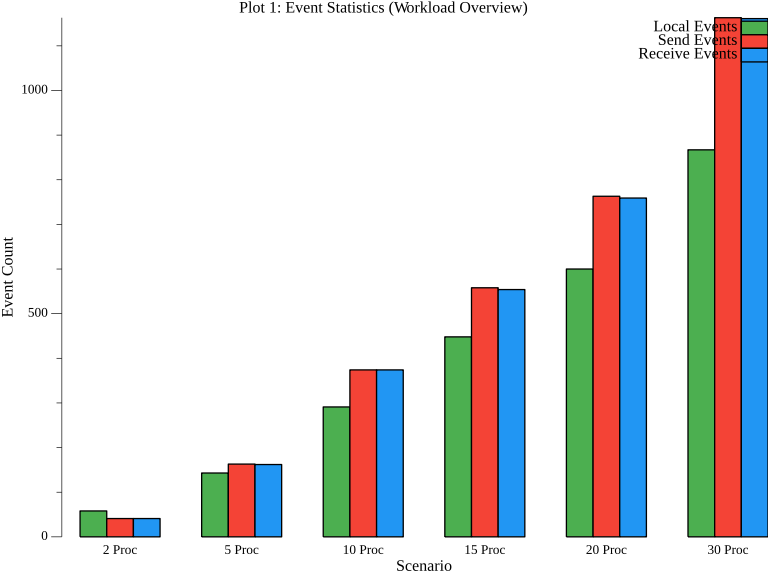
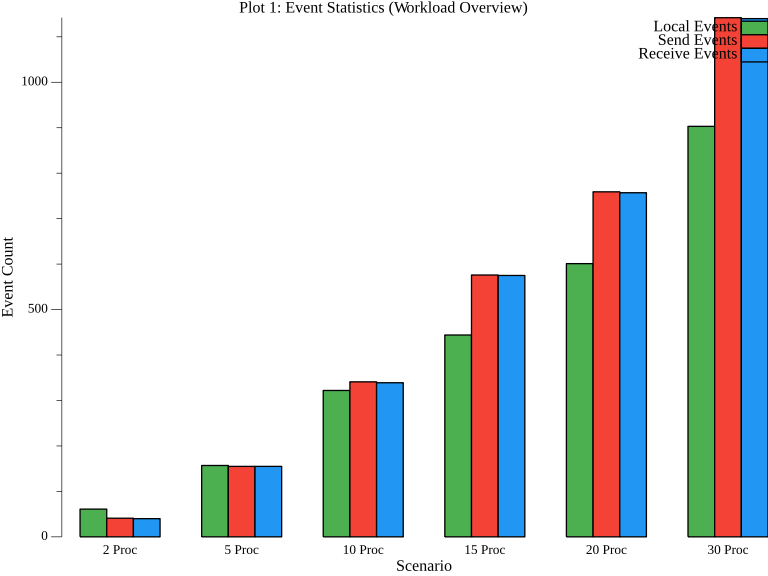
remove causality analysis

diff --git a/Synchronization/cmd/demo/main.go b/Synchronization/cmd/demo/main.go
@@ -9,7 +9,7 @@ import (
 
 // simulation configuration
 const (
-	numProcesses    = 20              // number of processes
+	numProcesses    = 10              // number of processes
 	simulationTime  = 2 * time.Second // seconds the simulation runs
 	localEventProb  = 0.5             // probability of local event
 	sendEventProb   = 0.8             // probability of send event
@@ -24,7 +24,6 @@ func main() {
 	displayStatistics(sim)
 	displayComplexityAnalysis(sim)
 	displayTimeComplexity(sim)
-	displayCausalAnalysis(sim)
 	displayConcurrencyAnalysis(sim)
 	displayAlgorithmComparison(sim)
 	displayCommunicationMatrix(sim)
@@ -152,22 +151,16 @@ func displayAlgorithmComparison(sim *simulator.Simulator) {
 	fmt.Println("━━━━━━━━━━━━━━━━━━━━━━━━━━━━━━━━━━━━━━━━━━━━━━━━━━━━━━━━")
 	fmt.Println("Lamport Timestamp:")
 	lamport := comparison["lamport"].(map[string]interface{})
-	fmt.Printf("  ✓ Space per process:  %d bytes\n", lamport["space_per_process"])
-	fmt.Printf("  ✓ Message overhead:   %d bytes\n", lamport["message_overhead"])
-	fmt.Printf("  ✗ Concurrent detect:  %v\n", lamport["can_detect_concurrent"])
+	fmt.Printf("  Space per process:  %d bytes\n", lamport["space_per_process"])
+	fmt.Printf("  Message overhead:   %d bytes\n", lamport["message_overhead"])
+	fmt.Printf("  Concurrent detect:  %v\n", lamport["can_detect_concurrent"])
 
 	fmt.Println("\nVector Clock:")
 	vec := comparison["vector"].(map[string]interface{})
-	fmt.Printf("  ✓ Space per process:  %d bytes\n", vec["space_per_process"])
-	fmt.Printf("  ✓ Message overhead:   %d bytes\n", vec["message_overhead"])
-	fmt.Printf("  ✓ Concurrent detect:  %v\n", vec["can_detect_concurrent"])
-	fmt.Printf("  ℹ  Overhead ratio:     %.1fx\n", vec["overhead_ratio"])
-
-	fmt.Println("\nTrade-off Summary:")
-	tradeoff := comparison["tradeoff"].(map[string]interface{})
-	fmt.Printf("  • Space increase:     %s\n", tradeoff["space_increase"])
-	fmt.Printf("  • Message increase:   %s\n", tradeoff["message_increase"])
-	fmt.Printf("  • Benefit:            %s\n", tradeoff["concurrent_detection"])
+	fmt.Printf("  Space per process:  %d bytes\n", vec["space_per_process"])
+	fmt.Printf("  Message overhead:   %d bytes\n", vec["message_overhead"])
+	fmt.Printf("  Concurrent detect:  %v\n", vec["can_detect_concurrent"])
+	fmt.Printf("  Overhead ratio:     %.1fx\n", vec["overhead_ratio"])
 	fmt.Println()
 }
 
@@ -197,59 +190,24 @@ func displayComplexityAnalysis(sim *simulator.Simulator) {
 }
 
 func displayTimeComplexity(sim *simulator.Simulator) {
-	theoretical := sim.CalculateTimeComplexity()
 	empirical := sim.MeasureEmpiricalComplexity()
 
 	fmt.Println("━━━━━━━━━━━━━━━━━━━━━━━━━━━━━━━━━━━━━━━━━━━━━━━━━━━━━━━━")
 	fmt.Println("Time Complexity Analysis")
 	fmt.Println("━━━━━━━━━━━━━━━━━━━━━━━━━━━━━━━━━━━━━━━━━━━━━━━━━━━━━━━━")
 
-	fmt.Println("\nTheoretical Complexity:")
-	fmt.Println("\n  Lamport Clock:")
-	fmt.Printf("    Update operation:   %s\n", theoretical.LamportUpdate)
-	fmt.Printf("    Compare operation:  %s\n", theoretical.LamportCompare)
-
-	fmt.Println("\n  Vector Clock:")
-	fmt.Printf("    Update operation:   %s\n", theoretical.VectorUpdate)
-	fmt.Printf("    Compare operation:  %s\n", theoretical.VectorCompare)
-	fmt.Printf("    Merge operation:    %s\n", theoretical.VectorMerge)
-
-	fmt.Println("\nEmpirical Measurements (this simulation):")
 	fmt.Println("\n  Lamport Clock:")
 	fmt.Printf("    Total updates:      %6d operations\n", empirical.LamportUpdates)
-	fmt.Printf("    Total comparisons:  %6d operations\n", empirical.LamportCompares)
-	fmt.Printf("    Ops per update:     ~1 operation\n")
-	fmt.Printf("    Ops per compare:    ~1 operation\n")
+	fmt.Printf("    Ops per update:     ~1 operation (O(1))\n")
 
 	fmt.Println("\n  Vector Clock:")
 	fmt.Printf("    Total updates:      %6d operations\n", empirical.VectorUpdates)
-	fmt.Printf("    Total comparisons:  %6d operations\n", empirical.VectorCompares)
-	fmt.Printf("    Ops per update:     ~%.0f operations (vector size)\n", empirical.VectorOpsPerUpdate)
-	fmt.Printf("    Ops per compare:    ~%.0f operations (vector size)\n", empirical.VectorOpsPerCompare)
+	fmt.Printf("    Ops per update:     ~%.0f operations (O(n))\n", empirical.VectorOpsPerUpdate)
 
 	fmt.Println("\n  Complexity Ratio:")
-	totalLamportOps := float64(empirical.LamportUpdates + empirical.LamportCompares)
-	totalVectorOps := float64(empirical.VectorUpdates+empirical.VectorCompares) * empirical.VectorOpsPerUpdate
+	totalLamportOps := float64(empirical.LamportUpdates)
+	totalVectorOps := float64(empirical.VectorUpdates) * empirical.VectorOpsPerUpdate
 	fmt.Printf("    Vector/Lamport:     %.1fx more operations\n", totalVectorOps/totalLamportOps)
-	fmt.Println()
-}
-
-func displayCausalAnalysis(sim *simulator.Simulator) {
-	relations := sim.CountCausalRelationships()
-	total := relations["before"] + relations["after"] + relations["concurrent"] + relations["equal"]
-
-	fmt.Println("━━━━━━━━━━━━━━━━━━━━━━━━━━━━━━━━━━━━━━━━━━━━━━━━━━━━━━━━")
-	fmt.Println("🔗 Causal Relationship Analysis")
-	fmt.Println("━━━━━━━━━━━━━━━━━━━━━━━━━━━━━━━━━━━━━━━━━━━━━━━━━━━━━━━━")
-	fmt.Printf("Before relationships:     %6d (%.1f%%)\n",
-		relations["before"], percentage(relations["before"], total))
-	fmt.Printf("After relationships:      %6d (%.1f%%)\n",
-		relations["after"], percentage(relations["after"], total))
-	fmt.Printf("Concurrent relationships: %6d (%.1f%%)\n",
-		relations["concurrent"], percentage(relations["concurrent"], total))
-	fmt.Printf("Equal timestamps:         %6d (%.1f%%)\n",
-		relations["equal"], percentage(relations["equal"], total))
-	fmt.Printf("Total event pairs:        %6d\n", total)
 	fmt.Println()
 }
 

diff --git a/Synchronization/simulator/complexity.go b/Synchronization/simulator/complexity.go
@@ -78,39 +78,11 @@ func (s *Simulator) CompareAlgorithms() map[string]interface{} {
 	}
 }
 
-// TimeComplexity holds theoretical time complexity analysis
-type TimeComplexity struct {
-	LamportUpdate  string // Time complexity for updating Lamport clock
-	LamportCompare string // Time complexity for comparing Lamport timestamps
-	VectorUpdate   string // Time complexity for updating Vector clock
-	VectorCompare  string // Time complexity for comparing Vector clocks
-	VectorMerge    string // Time complexity for merging Vector clocks
-}
-
-// CalculateTimeComplexity returns theoretical time complexities for both clock types
-func (s *Simulator) CalculateTimeComplexity() TimeComplexity {
-	n := s.NumProcesses
-
-	return TimeComplexity{
-		// Lamport clock operations
-		LamportUpdate:  "O(1)", // Just increment or max operation
-		LamportCompare: "O(1)", // Simple integer comparison
-
-		// Vector clock operations
-		VectorUpdate:  fmt.Sprintf("O(n) where n=%d", n), // Must increment one element
-		VectorCompare: fmt.Sprintf("O(n) where n=%d", n), // Must compare all n elements
-		VectorMerge:   fmt.Sprintf("O(n) where n=%d", n), // Must merge all n elements
-	}
-}
-
 // EmpiricalComplexity holds measured operation counts
 type EmpiricalComplexity struct {
-	LamportUpdates      int     // Total Lamport clock updates
-	LamportCompares     int     // Total Lamport comparisons
-	VectorUpdates       int     // Total Vector clock updates (operations on n elements)
-	VectorCompares      int     // Total Vector clock comparisons
-	VectorOpsPerUpdate  float64 // Average vector operations per update
-	VectorOpsPerCompare float64 // Average vector operations per compare
+	LamportUpdates     int     // Total Lamport clock updates
+	VectorUpdates      int     // Total Vector clock updates (operations on n elements)
+	VectorOpsPerUpdate float64 // Average vector operations per update
 }
 
 // MeasureEmpiricalComplexity calculates actual operation counts from simulation
@@ -124,18 +96,9 @@ func (s *Simulator) MeasureEmpiricalComplexity() EmpiricalComplexity {
 	// Vector: each event touches the vector (O(n))
 	vectorUpdates := totalEvents
 
-	// Comparisons happen when receiving messages
-	// and during causal analysis
-	relations := s.CountCausalRelationships()
-	totalComparisons := relations["before"] + relations["after"] +
-		relations["concurrent"] + relations["equal"]
-
 	return EmpiricalComplexity{
-		LamportUpdates:      lamportUpdates,
-		LamportCompares:     totalComparisons,
-		VectorUpdates:       vectorUpdates,
-		VectorCompares:      totalComparisons,
-		VectorOpsPerUpdate:  float64(s.NumProcesses), // n operations per update
-		VectorOpsPerCompare: float64(s.NumProcesses), // n operations per compare
+		LamportUpdates:     lamportUpdates,
+		VectorUpdates:      vectorUpdates,
+		VectorOpsPerUpdate: float64(s.NumProcesses), // n operations per update
 	}
 }

diff --git a/Synchronization/cmd/plots/main.go b/Synchronization/cmd/plots/main.go
@@ -43,7 +43,6 @@ type SimulationResult struct {
 	LocalEvents         int
 	SendEvents          int
 	ReceiveEvents       int
-	CausalPairs         int // before + after relationships
 	ConcurrentPairs     int // concurrent relationships
 	TotalPairs          int
 	LamportBytesPerProc int // Space overhead per process
@@ -52,7 +51,6 @@ type SimulationResult struct {
 	VectorMsgBytes      int // Average message overhead
 	TotalMessages       int
 	ConcurrencyRate     float64
-	CausalRate          float64
 }
 
 func main() {
@@ -97,13 +95,11 @@ func runSimulations() []SimulationResult {
 			avgResult.SendEvents += stats["send_events"].(int)
 			avgResult.ReceiveEvents += stats["receive_events"].(int)
 
-			// Get causal relationships
-			relations := sim.CountCausalRelationships()
-			causalPairs := relations["before"] + relations["after"]
-			concurrentPairs := relations["concurrent"]
-			totalPairs := causalPairs + concurrentPairs + relations["equal"]
+			// Count concurrent events
+			concurrentPairs := sim.CountConcurrentEvents()
+			totalEvents := stats["total_events"].(int)
+			totalPairs := totalEvents * (totalEvents - 1) / 2
 
-			avgResult.CausalPairs += causalPairs
 			avgResult.ConcurrentPairs += concurrentPairs
 			avgResult.TotalPairs += totalPairs
 
@@ -123,7 +119,6 @@ func runSimulations() []SimulationResult {
 		avgResult.LocalEvents /= numRuns
 		avgResult.SendEvents /= numRuns
 		avgResult.ReceiveEvents /= numRuns
-		avgResult.CausalPairs /= numRuns
 		avgResult.ConcurrentPairs /= numRuns
 		avgResult.TotalPairs /= numRuns
 		avgResult.LamportBytesPerProc /= numRuns
@@ -134,7 +129,6 @@ func runSimulations() []SimulationResult {
 
 		if avgResult.TotalPairs > 0 {
 			avgResult.ConcurrencyRate = float64(avgResult.ConcurrentPairs) / float64(avgResult.TotalPairs) * 100
-			avgResult.CausalRate = float64(avgResult.CausalPairs) / float64(avgResult.TotalPairs) * 100
 		}
 
 		results = append(results, avgResult)

diff --git a/Synchronization/simulator/analysis.go b/Synchronization/simulator/analysis.go
@@ -88,38 +88,6 @@ func AreEqual(v1, v2 []int64) bool {
 	return vector.CompareClocks(v1, v2) == vector.Equal
 }
 
-// analyzes all causal relationships
-func (s *Simulator) CountCausalRelationships() map[string]int {
-	before := 0
-	after := 0
-	concurrent := 0
-	equal := 0
-	events := s.Events
-
-	for i := 0; i < len(events); i++ {
-		for j := i + 1; j < len(events); j++ {
-			ordering := vector.CompareClocks(events[i].VectorTime, events[j].VectorTime)
-			switch ordering {
-			case vector.Before:
-				before++
-			case vector.After:
-				after++
-			case vector.Concurrent:
-				concurrent++
-			case vector.Equal:
-				equal++
-			}
-		}
-	}
-
-	return map[string]int{
-		"before":     before,
-		"after":      after,
-		"concurrent": concurrent,
-		"equal":      equal,
-	}
-}
-
 // returns who communicated with whom
 func (s *Simulator) GetCommunicationMatrix() [][]int {
 	matrix := make([][]int, s.NumProcesses)
